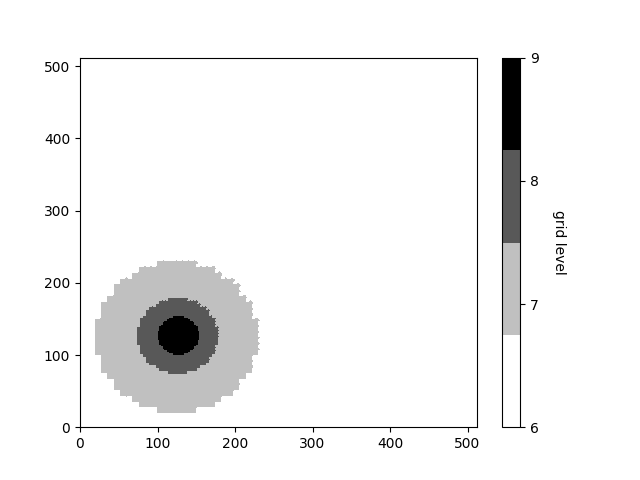
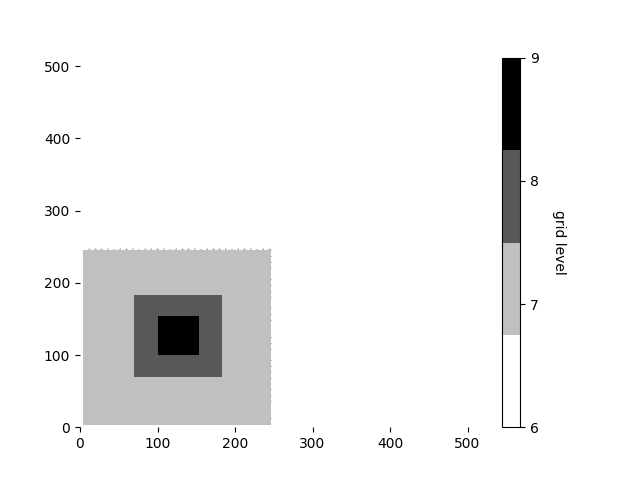
some improvements

Changed region(s): [[0.125, 0.5, 0.4375, 0.9062], [0.1875, 0.5938, 0.3438, 0.8125]]

diff --git a/vis_2d_nonuniform.py b/vis_2d_nonuniform.py
@@ -33,18 +33,31 @@ yi = np.linspace(0,2**max_lvl,2**max_lvl)
 cmp = cm.get_cmap(cmap_name)
 tcks = []
 cbar_label = ''
+v_min = 0
+v_max = 10
+ttl = ''
 
 zi = griddata((Y, X), Z, (xi[None,:], yi[:,None]), method='linear')
 if plot_dat == 'temp':
     cbar_label = 'temperature'
+    v_min = 0
+    v_max = np.round(np.max(Z))
+    tcks = np.linspace(v_min, v_max, num=11)
+    plt.xticks(np.linspace(0, 500, num=6), ['{:1.1f}'.format(x) for x in np.linspace(0, 1, num=6)])
+    plt.yticks(np.linspace(0, 500, num=6), ['{:1.1f}'.format(x) for x in np.linspace(0, 1, num=6)])
+    if 'base_grid' in filename:
+        ttl = 'Начальное распределение температуры'
 
 if plot_dat == 'lvls':
     zi = griddata((Y, X), L, (xi[None,:], yi[:,None]), method='nearest')
     viridis = cm.get_cmap(cmap_name, 12)
-    newcolors = viridis(np.linspace(0, 1, int(L.max() - L.min()) + 1))
+    v_min = L.min()
+    v_max = L.max()
+    newcolors = viridis(np.linspace(0, 1, int(v_max - v_min) + 1))
     cmp = ListedColormap(newcolors)
-    tcks = [i for i in range(int(L.min()), int(L.max()) + 1)]
+    tcks = [i for i in range(int(v_min), int(v_max) + 1)]
     cbar_label = 'grid level'
+    
 
 elif plot_dat == 'procs':
     n_procs = int(sys.argv[6])
@@ -66,9 +79,11 @@ elif plot_dat == 'procs':
     zi = griddata((Y, X), C, (xi[None,:], yi[:,None]), method='nearest')
     
 
-pl = plt.pcolor(xi, yi, zi, cmap=cmp)
+pl = plt.pcolor(xi, yi, zi, cmap=cmp, vmin=v_min, vmax=v_max, clip_on=False)
+# plt.axis('off')
+pl.axes.set_frame_on(False)
 cbar = None
-if tcks:
+if plot_dat == 'temp' and tcks.any() or tcks:
     cbar = plt.colorbar(pl, ticks=tcks)
 else:
     cbar = plt.colorbar(pl)
@@ -76,7 +91,12 @@ if cbar_label != '':
     cbar.ax.get_yaxis().labelpad = 20
     cbar.ax.set_ylabel(cbar_label, rotation=270)
 # plt.show()
-plt.savefig(imgfile)
+# plt.axes([0,0,1,1], frameon=False)
+
+if ttl:
+    plt.title(ttl)
+
+plt.savefig(imgfile, transparent=True)
 
 
 # plt.scatter(Y, X, c=Z, cmap=plt.get_cmap(cmap_name))

diff --git a/src/area/area.cpp b/src/area/area.cpp
@@ -18,27 +18,34 @@ double Area::T0(double x, double y) {
     double r = 0.05;
     double c_x = 0.25;
     double c_y = 0.25;
-    if ( (x-c_x) * (x-c_x) + (y-c_y) * (y-c_y) < r*r ) { //,0078125 < 0,09
-        return 10;
-    }
-    return 0.0;
+    // if ( (x-c_x) * (x-c_x) + (y-c_y) * (y-c_y) < r*r ) { //,0078125 < 0,09
+    //     return 10;
+    // }
+    // return 0.0;
+    double sigma_x = 0.05;
+    double sigma_y = 0.05;
+    double mean_x = 0.25;
+    double mean_y = 0.25;
+    return 0.05 * (1.0 / (sigma_x * sigma_y)) * exp( - ((x - mean_x)*(x - mean_x))/(2*sigma_x*sigma_x) - ((y - mean_y)*(y - mean_y))/(2*sigma_y*sigma_y) );
 }
 
 int Area::Refine1(double x, double y) {
-    double r = 0.2;
+    double r = 0.24;
     double c_x = 0.25;
     double c_y = 0.25;
-    if ( (x-c_x) * (x-c_x) + (y-c_y) * (y-c_y) < r*r ) { //,0078125 < 0,09
+    // if ( (x-c_x) * (x-c_x) + (y-c_y) * (y-c_y) < r*r ) { //,0078125 < 0,09
+    if ( (fabs(x-c_x) < r) && (fabs(y - c_y) < r) ) {
         return 1;
     }
     return 0.0;
 }
 
 int Area::Refine2(double x, double y) {
-    double r = 0.1;
+    double r = 0.11;
     double c_x = 0.25;
     double c_y = 0.25;
-    if ( (x-c_x) * (x-c_x) + (y-c_y) * (y-c_y) < r*r ) { //,0078125 < 0,09
+    // if ( (x-c_x) * (x-c_x) + (y-c_y) * (y-c_y) < r*r ) { //,0078125 < 0,09
+    if ( (fabs(x-c_x) < r) && (fabs(y - c_y) < r) ) {
         return 1;
     }
     return 0.0;
@@ -48,7 +55,8 @@ int Area::Refine3(double x, double y) {
     double r = 0.05;
     double c_x = 0.25;
     double c_y = 0.25;
-    if ( (x-c_x) * (x-c_x) + (y-c_y) * (y-c_y) < r*r ) { //,0078125 < 0,09
+    // if ( (x-c_x) * (x-c_x) + (y-c_y) * (y-c_y) < r*r ) { //,0078125 < 0,09
+    if ( (fabs(x-c_x) < r) && (fabs(y - c_y) < r) ) {
         return 1;
     }
     return 0.0;

diff --git a/src/proc/proc.cpp b/src/proc/proc.cpp
@@ -56,7 +56,6 @@ string MetaInfo::toString() {
 
 Proc::Proc() {
     stat.timers["total"] = MpiTimer();
-    stat.timers["total"].Start();
     stat.timers["io"] = MpiTimer();
     stat.timers["build_ghosts"] = MpiTimer();
     stat.timers["exchange_ghosts"] = MpiTimer();
@@ -85,7 +84,6 @@ Proc::~Proc() {
         delete[] ghosts_out_temps;
     }
 
-    stat.timers["total"].Stop();
     std::cout << mpiInfo.comm_rank << " ";
     std::cout << stat.toString() << std::endl;
 }
@@ -96,9 +94,11 @@ int Proc::MPIInit(int argc, char **argv) {
     MPI_Comm_rank(MPI_COMM_WORLD, &mpiInfo.comm_rank);
     MPI_Comm_size(MPI_COMM_WORLD, &mpiInfo.comm_size);
 
+    stat.timers["total"].Start();
     return 0;
 }
 int Proc::MPIFinalize() {
+    stat.timers["total"].Stop();
     MPI_Finalize();
     return 0;
 }

diff --git a/src/grid/grid.cpp b/src/grid/grid.cpp
@@ -73,7 +73,7 @@ void split_ints(GlobalNumber_t c, int *a, int *b) {
 }
 
 CellIndex::CellIndex(int _lvl, GlobalNumber_t globalNumber): lvl(_lvl) {
-    std::cout << "new CellIndex(" << lvl << ", " << globalNumber << ")\n";
+    // std::cout << "new CellIndex(" << lvl << ", " << globalNumber << ")\n";
     split_ints(globalNumber, &i, &j);
 }
 
